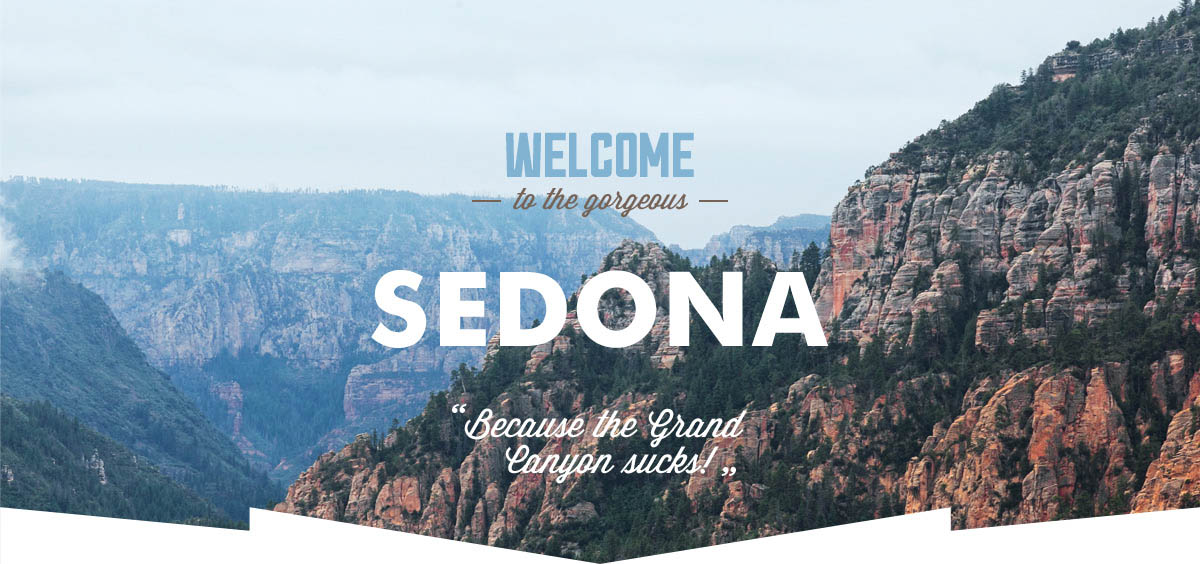
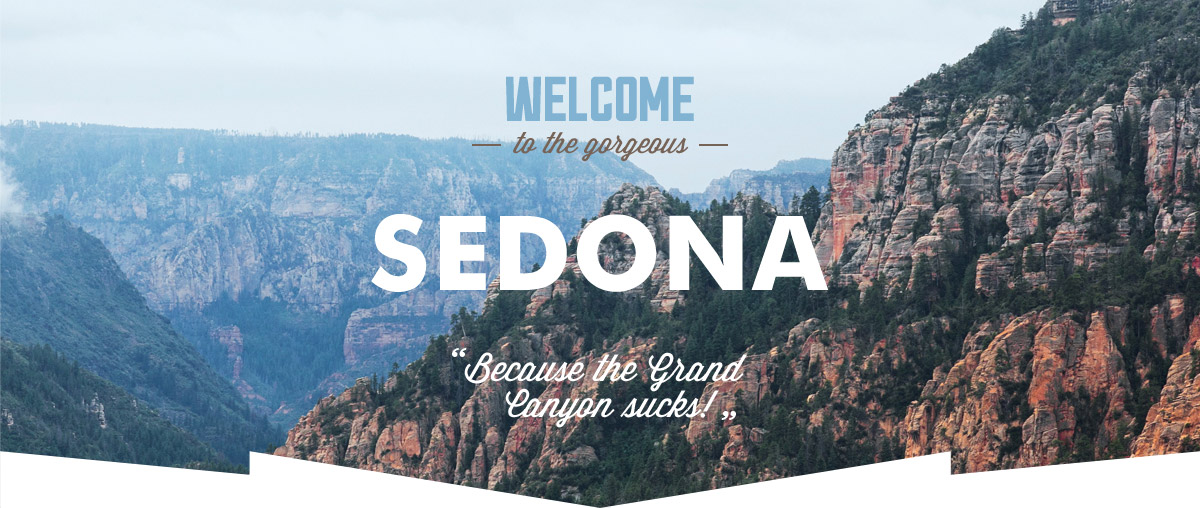
пикс перф Индекс

diff --git a/index.html b/index.html
@@ -23,7 +23,7 @@
       </header>
       <main>
         <section class="greetings">
-          <img src="img/sedona-main.jpg" alt="Добро пожаловать в Седону" width="1200" height="800">
+          <img src="img/sedona-main.jpg" alt="Добро пожаловать в Седону" width="1200" height="508">
         </section>
         <section class="promo">
           <h2>Седона &mdash; небольшой городок в Аризоне, заслуживающий большего!</h2>
@@ -42,12 +42,12 @@
         <section class="features">
           <ul class="features-list">
             <li>
-              <img src="img/icon-1.png" width="72" height="75" alt="home">
+              <img src="img/icon-1.png" width="75" height="72" alt="home" class="home">
               <h2>Жилье</h2>
               <p>Рекомендуем пожить в настоящем мотеле, все как в кино!</p>
             </li>
             <li>
-              <img src="img/icon-3.png" width="74" height="70" alt="food">
+              <img src="img/icon-3.png" width="74" height="70" alt="food" class="food">
               <h2>Еда</h2>
               <p>Всегда заказывайте фирменный бургер, вы не разочаруетесь!</p>
             </li>
@@ -63,7 +63,7 @@
             <img src="img/sedona-layer-2.jpg" width="800" alt="sedona-view">
           </div>
           <div class="desc-places">
-            <h2>Там есть мост дьявола</h2>
+            <h2>Там есть<br> мост дьявола</h2>
             <span>&mdash; №2 &mdash;</span>
             <p>Да, по нему можно пройти! Если конечно вы осмелитесь</p>
           </div>
@@ -71,17 +71,17 @@
         <section class="features-second">
           <ul class="features-list">
             <li>
-              <h2>Небольшая площадь</h2>
+              <h2 class="features-li">Небольшая площадь</h2>
               <span>&mdash; №3 &mdash;</span>
               <h3>Все достопримечательности находятся очень близко</h3>
             </li>
             <li>
-              <h2>Красивая дорога</h2>
+              <h2 class="features-li">Красивая дорога</h2>
               <span>&mdash; №4 &mdash;</span>
               <h3>Ехать в седону из лас-вегаса совсем не скучно!</h3>
             </li>
             <li>
-              <h2>Мало туристов</h2>
+              <h2 class="features-li">Мало туристов</h2>
               <span>&mdash; №5 &mdash;</span>
               <h3>Большинство едет в гранд каньон и толпится там</h3>
             </li>
@@ -90,7 +90,7 @@
         <div class="dates">
           <h2>Заинтересовались?</h2>
           <p>Укажите предполагаемые даты поездки,<br> и мы покажем вам лучшие предложения гостиниц в седоне</p>
-          <a href="#">Поиск гостиницы в седоне</a>
+          <button><a href="#">Поиск гостиницы в седоне</a></button>
           <form action="" method="">
             <div class="date-in">
               <label for="date-in" tabindex="0">Дата заезда</label>
@@ -120,7 +120,7 @@
           </form>
         </div>
         <section class="maps">
-              <img src="img/map.jpg" width="1200" height="748" alt="map">
+              <img src="img/map.jpg" width="1200" height="475" alt="map">
           <iframe src="https://www.google.com/maps/embed?pb=!1m18!1m12!1m3!1d104770.38018730558!2d-111.86517855273749!3d34.85435832354931!2m3!1f0!2f0!3f0!3m2!1i1024!2i768!4f13.1!3m3!1m2!1s0x872da132f942b00d%3A0x5548c523fa6c8efd!2z0KHQtdC00L7QvdCwLCDQkNGA0LjQt9C-0L3QsCA4NjMzNiwg0KHQqNCQ!5e0!3m2!1sru!2sby!4v1509725318805" width="600" height="450" frameborder="0" style="border:0" allowfullscreen></iframe>
         </section>
       </main>
@@ -131,13 +131,13 @@
         <div class="social">
           <ul class="social-list">
             <li><a href="#"><span class="visually-hidden">Twitter</span>
-                  <svg xmlns="http://www.w3.org/2000/svg" xmlns:xlink="http://www.w3.org/1999/xlink" width="48" height="48" alt="twitter" viewBox="0 0 17 15"><path fill="#fff" d="M10.95.144c1.685-.496 2.984.27 3.577 1.179.673-.231 1.331-.481 2.011-.708a2.345 2.345 0 0 1-.857 1.768c.685.17 1.304-.491 1.304-.491-.169 1-1.006 1.788-1.563 2.024-.231 6.75-3.175 11.217-10.077 11.082h-.446c-.41 0-4.164-.46-4.898-1.887 2.271.196 3.893-.422 4.693-1.177-.96-.3-2.679-.477-2.979-2.95.349.106.564.228 1.19.119C1.705 8.247.374 7.53.448 5.33c.285.328 1.067.536 1.34.472C1.085 5.561-.182 2.442.894.85c1.818 1.854 3.735 3.606 7.152 3.773C8.254 2.33 9.183.793 10.95.144z"/></svg>    
+                  <svg xmlns="http://www.w3.org/2000/svg" xmlns:xlink="http://www.w3.org/1999/xlink" width="46" height="48" alt="twitter" viewBox="0 0 17 15"><path fill="#fff" d="M10.95.144c1.685-.496 2.984.27 3.577 1.179.673-.231 1.331-.481 2.011-.708a2.345 2.345 0 0 1-.857 1.768c.685.17 1.304-.491 1.304-.491-.169 1-1.006 1.788-1.563 2.024-.231 6.75-3.175 11.217-10.077 11.082h-.446c-.41 0-4.164-.46-4.898-1.887 2.271.196 3.893-.422 4.693-1.177-.96-.3-2.679-.477-2.979-2.95.349.106.564.228 1.19.119C1.705 8.247.374 7.53.448 5.33c.285.328 1.067.536 1.34.472C1.085 5.561-.182 2.442.894.85c1.818 1.854 3.735 3.606 7.152 3.773C8.254 2.33 9.183.793 10.95.144z"/></svg>    
                 </a></li>
             <li><a href="#"><span class="visually-hidden">Facebook</span>
-                  <svg xmlns="http://www.w3.org/2000/svg" width="48" height="48" alt="facebook" viewBox="0 0 12 22"><path fill="#fff" d="M12 4V0H8a4 4 0 0 0-4 4v4H0v4h4v10h4V12h4V8H8V4h4z"/></svg>    
+                  <svg xmlns="http://www.w3.org/2000/svg" width="46" height="48" alt="facebook" viewBox="0 0 12 22"><path fill="#fff" d="M12 4V0H8a4 4 0 0 0-4 4v4H0v4h4v10h4V12h4V8H8V4h4z"/></svg>    
                 </a></li>
             <li><a href="#"><span class="visually-hidden">Youtube</span>
-                  <svg xmlns="http://www.w3.org/2000/svg" xmlns:xlink="http://www.w3.org/1999/xlink" width="48" height="48" alt="youtube" viewBox="0 0 20 16"><path fill="#fff" d="M17 0H3C1.35 0 0 1.35 0 3v10c0 1.65 1.35 3 3 3h14c1.65 0 3-1.35 3-3V3c0-1.65-1.35-3-3-3zM6.027 11.998V4.002L15.014 8l-8.987 3.998z"/></svg>
+                  <svg xmlns="http://www.w3.org/2000/svg" xmlns:xlink="http://www.w3.org/1999/xlink" width="46" height="48" alt="youtube" viewBox="0 0 20 16"><path fill="#fff" d="M17 0H3C1.35 0 0 1.35 0 3v10c0 1.65 1.35 3 3 3h14c1.65 0 3-1.35 3-3V3c0-1.65-1.35-3-3-3zM6.027 11.998V4.002L15.014 8l-8.987 3.998z"/></svg>
                 </a></li>
           </ul>
         </div>

diff --git a/css/style.css b/css/style.css
@@ -48,6 +48,10 @@ body {
 	color: #cacaca;
 }
 
+.greetings {
+	height: 508px;
+}
+
 .promo h2 {
 	font-size: 21px;
 	color: black;
@@ -298,8 +302,8 @@ button.ordering:active {
 	display: flex;
 	margin: 0;
 	padding: 0;
-	padding-top: 19px;
-	padding-bottom: 19px;
+	padding-top: 15px;
+	padding-bottom: 15px;
 	text-transform: uppercase;
 	padding-left: 72px;
 	padding-right: 72px;
@@ -311,7 +315,9 @@ button.ordering:active {
 }
 
 .site-navigation li:nth-child(2) {
-	margin-right: 211px;
+	margin-right: 150px;
+	width: 20%;
+	margin-left: 30px;
 }
 
 .site-navigation li:nth-child(3) {
@@ -320,6 +326,7 @@ button.ordering:active {
 
 .site-navigation li:nth-child(4) {
 	text-align: right;
+	margin-left: 32px;
 }
 
 .main-header-logo {
@@ -336,15 +343,21 @@ button.ordering:active {
 }
 
 .promo h2 {
-	padding-top: 59px;
+	padding-top: 60px;
 	margin: auto;
-	padding-bottom: 39px;
+	padding-bottom: 16px;
 	width: 450px;
 	text-align: center;
+	text-transform: uppercase;
+}
+
+.promo p {
+	text-transform: uppercase;
+	margin-top: 11px;
 }
 
 .advantages {
-	padding-top: 56px;
+	padding-top: 37px;
 	display: flex;
 }
 
@@ -353,23 +366,26 @@ button.ordering:active {
 	flex-direction: column;
 	height: 257px;
 	align-items: center;
+	text-transform: uppercase;
 }
 
 .desc h2 {
-	padding-top: 50px;
+	padding-top: 47px;
+	text-align: center;
 	width: 126px;
 	margin: 0;
 }
 
 .desc span {
-	padding-top: 29px;
+	padding-top: 24px;
 	margin: 0;
 }
 
 .desc p {
-	padding-top: 32px;
+	padding-top: 20px;
 	margin: 0;
-	width: 260px;
+	width: 290px;
+	text-align: center;
 }
 
 .picture img {
@@ -384,11 +400,15 @@ button.ordering:active {
 	padding: 0;
 	padding-top: 20px;
 	margin: 0;
+	padding-bottom: 60px;
 }
 
 .features-list p {
-	width: 400px;
+	width: 290px;
 	text-align: center;
+	text-transform: uppercase;
+	margin: 0;
+	margin-top: 5px;
 }
 
 .features-list li {
@@ -396,27 +416,59 @@ button.ordering:active {
 	flex-direction: column;
 	align-items: center;
 	justify-content: space-around;
+	margin-top: 27px;
+	width: 400px;
 }
 
 .features-list img {
-	padding-bottom: 32px;
+	padding-bottom: 28px;
 	margin: 0;
 }
 
 .features-list h2 {
-	padding-bottom: 26px;
+	padding-bottom: 20px;
 	margin: 0;
+	text-transform: uppercase;
+	width: 115px;
+	text-align: center;
 }
 
 .features-list h3 {
 	width: 400px;
 	text-align: center;
+	text-transform: uppercase;
+	width: 270px;
+	font-weight: normal;
+	font-size: 14px;
+	line-height: 21px;
+	margin: 0;
+	padding-top: 21px;
+}
+
+.features-li{
+	line-height: 20px;
+}
+
+.feature-second ul {
+	padding-bottom: 40px;
+}
+
+.food {
+	padding-top: 5px;
+	padding-right: 2px;
+}
+
+.home {
+	padding-top: 5px;
 }
 
 .places {
 	display: flex;
 	margin: 0;
 	padding: 0;
+	text-transform: uppercase;
+	text-align: center;
+	margin-top: 21px;
 }
 
 .places img {
@@ -435,18 +487,18 @@ button.ordering:active {
 }
 
 .desc-places h2 {
-	padding-top: 50px;
+	padding-top: 46px;
 	margin: 0;
 	width: 155px;
 }
 
 .desc-places span {
-	padding-top: 29px;
+	padding-top: 24px;
 	margin: 0;
 }
 
 .desc-places p {
-	padding-top: 32px;
+	padding-top: 21px;
 	margin: 0;
 	width: 310px;
 }
@@ -463,14 +515,34 @@ button.ordering:active {
 
 .dates h2 {
 	text-transform: uppercase;
-	padding-top: 52px;
+	padding-top: 50px;
 	margin: 0;
 }
 
 .dates p {
 	margin: 0;
-	padding-top: 38px;
+	padding-top: 24px;
 	text-align: center;
+	text-transform: uppercase;
+	padding-bottom: 45px;
+}
+
+.dates button {
+	background-color: #766357;
+	height: 86px;
+	width: 568px;
+}
+
+.dates a {
+	text-decoration: none;
+}
+
+form {
+	display: none;
+}
+
+iframe {
+	display: none;
 }
 
 .footer {
@@ -483,8 +555,13 @@ button.ordering:active {
 .hashtag {
 	text-transform: uppercase;
     width: 400px;
-    margin-top: 46px;
+    margin-top: 38px;
     margin-bottom: 48px;
+}
+
+.hashtag a {
+	padding-left: 60px;
+	padding-bottom: 50px;
 }
 
 .social {
@@ -494,6 +571,9 @@ button.ordering:active {
 .social-list {
 	display: flex;
 	flex-direction: row;
+	margin: 0;
+	margin-top: 12px;
+	margin-bottom: 14px;
 }
 
 .social-list ul {
@@ -502,12 +582,12 @@ button.ordering:active {
 }
 
 .social-list li:nth-child(1) {
-	padding-left: 30px;
-	margin-right: 3px;
+	padding-left: 36px;
+	margin-right: 5px;
 }
 
 .social-list li:nth-child(2) {
-	margin-right: 3px;
+	margin-right: 5px;
 }
 
 .visually-hidden {
@@ -519,11 +599,14 @@ button.ordering:active {
 	flex-direction: row;
 	margin: 0;
 	width: 400px;
+	margin-bottom: 5px;
 }
 
 .footer-logo span {
-	margin-left: 120px;
+	margin-left: 78px;
 	margin-right: 2px;
+	font-size: 20px;
+	padding-top: 6px;
 }
 
 .container {
